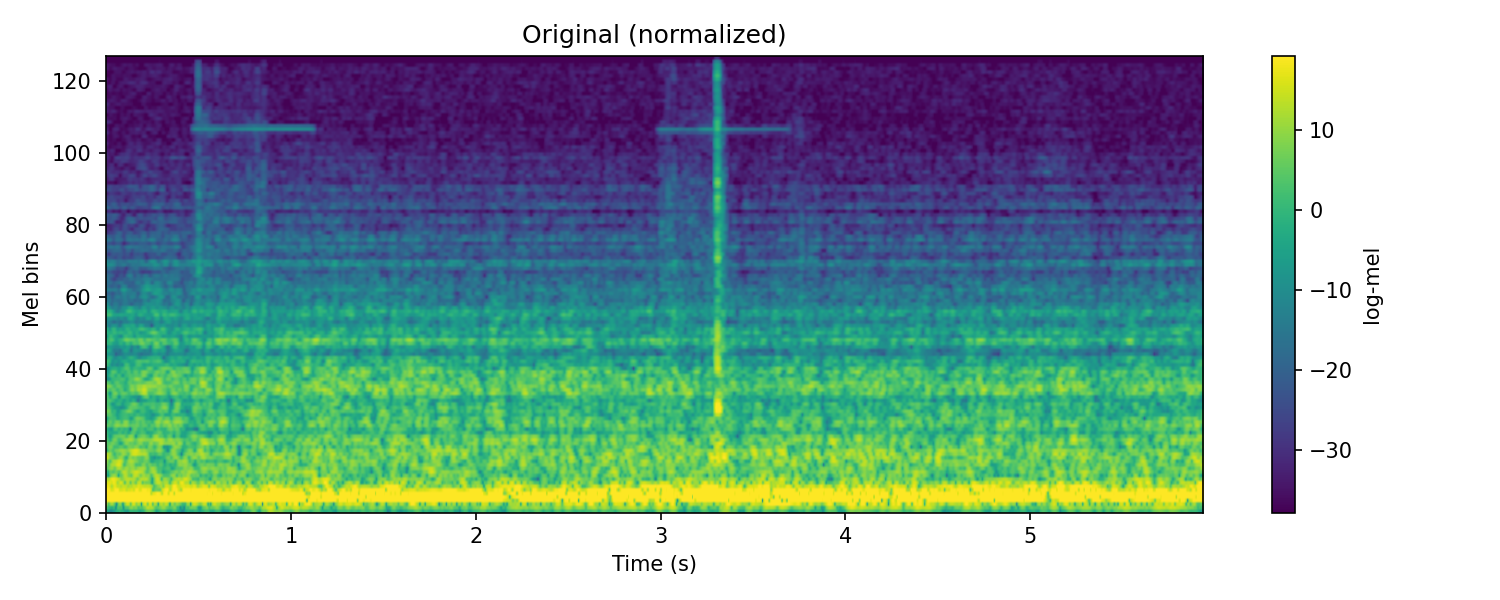
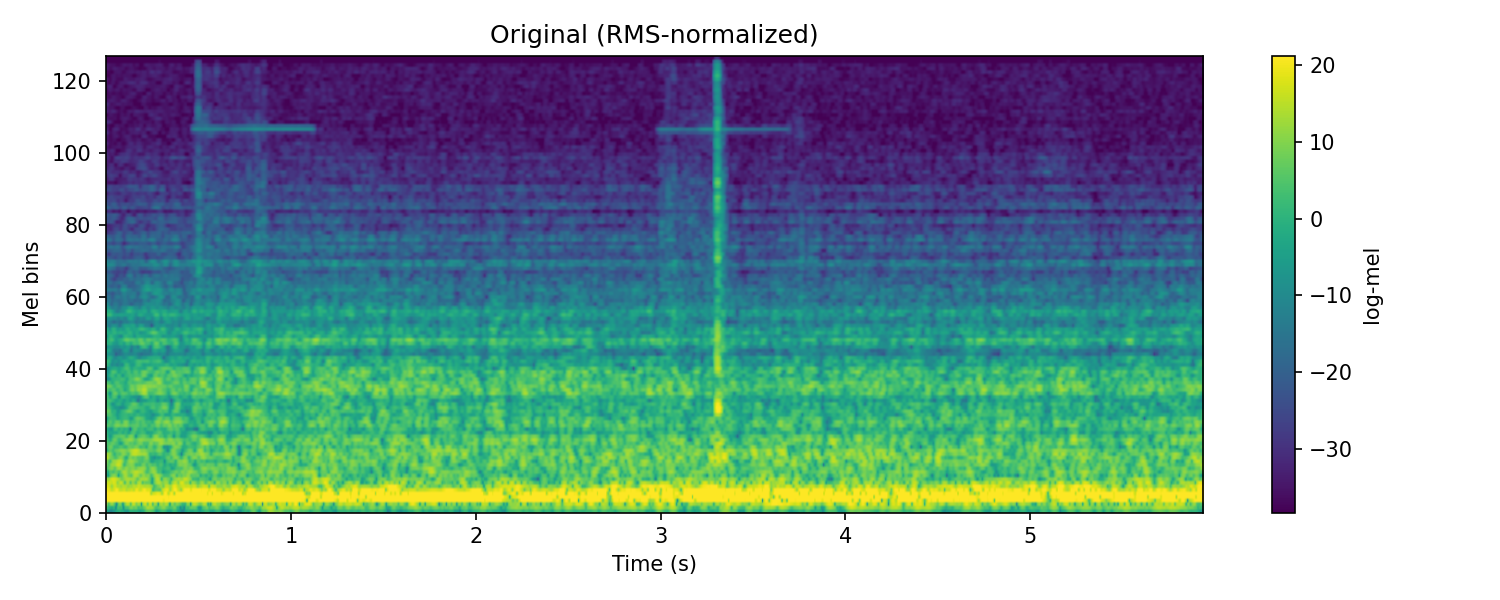
commit

diff --git a/sample.py b/sample.py
@@ -2,14 +2,14 @@
 # -*- coding: utf-8 -*-
 
 import argparse, warnings, sys, numpy as np, matplotlib.pyplot as plt, torch, librosa
+from tqdm import tqdm
+
 from sans import build_model
 from sans.audio_utils import WaveToMel
 from sans.objectives import band_energy_objective
 from sans.ascent_ckpt import encode_audio_cond, generate_with_audio_cond
 
-from tqdm import tqdm
-
-# ---------------- audio normalization ----------------
+# ---------------- audio normalization (ONLY for original) ----------------
 def rms_dbfs(x: torch.Tensor, eps: float = 1e-12) -> torch.Tensor:
     if x.ndim == 1: x = x.unsqueeze(0)
     rms = torch.sqrt((x ** 2).mean(dim=-1, keepdim=True) + eps)
@@ -23,80 +23,77 @@ def normalize_rms(x: torch.Tensor, target_dbfs: float = -20.0, peak_clip: float 
 
 # ---------------- shape utils: ALWAYS return [B,1,F,T] ----------------
 def ensure_mel_b1ft(x: torch.Tensor) -> torch.Tensor:
-    """
-    Accepts waveform [B,T] or mel-like [B,1,F,T]/[B,F,T]/[F,T]/[B,T,F].
-    Returns mel [B,1,F,T]. If input is waveform, caller should run to_mel() first.
-    """
     if not isinstance(x, torch.Tensor):
         x = torch.tensor(x, dtype=torch.float32)
     t = x
     if t.ndim == 4:                    # [B,1,F,T] or [B,C,F,T]
-        if t.size(1) != 1:
-            t = t.mean(dim=1, keepdim=True)
+        if t.size(1) != 1: t = t.mean(dim=1, keepdim=True)
         return t
     if t.ndim == 3:                    # [B,F,T] or [B,T,F]
-        # decide if middle is F or T by which is smaller (F ~ 64..512 typical)
         B, A, B2 = t.shape
-        if A <= B2:    # [B,F,T]
-            return t.unsqueeze(1)
-        else:          # [B,T,F] -> [B,1,F,T]
-            return t.transpose(1, 2).unsqueeze(1)
+        return t.unsqueeze(1) if A <= B2 else t.transpose(1, 2).unsqueeze(1)
     if t.ndim == 2:                    # [F,T] or [T,F]
         F, T = t.shape
-        if F <= T:    # [F,T]
-            return t.unsqueeze(0).unsqueeze(0)
-        else:         # [T,F]
-            return t.t().unsqueeze(0).unsqueeze(0)
-    if t.ndim == 1:                    # [T] -> fake batch/ch
+        return t.unsqueeze(0).unsqueeze(0) if F <= T else t.t().unsqueeze(0).unsqueeze(0)
+    if t.ndim == 1:
         return t.unsqueeze(0).unsqueeze(0)
     raise RuntimeError(f"Unsupported tensor shape for ensure_mel_b1ft: {tuple(t.shape)}")
 
-# ---------------- plotting with explicit axes ----------------
-def plot_mel_axes(
-        mel_b1ft: torch.Tensor, 
-        *, 
-        path: str, 
-        sr: int, 
-        hop: int,
-        axes: str = "time-x", 
-        title: str = None, 
-        vmin=None, 
-        vmax=None
-    ):
+# ---------------- plotting with explicit/auto axes ----------------
+def plot_mel_auto(
+    mel_b1ft: torch.Tensor, *, path: str, sr: int, hop: int,
+    expected_sec: float | None, mode: str = "auto", title: str = None,
+    vmin=None, vmax=None
+):
     """
     mel_b1ft: [B,1,F,T]
-    axes: "time-x"  -> X=time(s),  Y=mel bins
-          "time-y"  -> X=mel bins, Y=time(s)
+    mode: "auto" (pick orientation so time range ~ expected_sec),
+          "time-x" (X=time, Y=mel),
+          "time-y" (X=mel, Y=time)
     """
     m = mel_b1ft.detach().cpu().numpy()
     if m.ndim != 4 or m.shape[1] != 1:
         m = ensure_mel_b1ft(torch.tensor(m)).numpy()
     img = m[0, 0]  # [F,T]
-
     F, T = img.shape
+
+    # candidates
+    t_x = (T - 1) * (hop / sr)  # time if we put time on X (use img)
+    t_y = (F - 1) * (hop / sr)  # time if we put time on Y (use img.T)
+
+    # choose orientation
+    if mode == "auto" and expected_sec is not None:
+        # pick the candidate whose time range is closer to expected
+        if abs(t_x - expected_sec) <= abs(t_y - expected_sec):
+            pick = "time-x"
+        else:
+            pick = "time-y"
+    else:
+        pick = mode
+
+    # intensities
+    data = img if pick == "time-x" else img.T
     if vmin is None or vmax is None:
-        vmin = float(np.percentile(img, 2.0)); vmax = float(np.percentile(img, 98.0))
-    t_max = (T - 1) * (hop / sr)
+        vmin = float(np.percentile(data, 2.0)); vmax = float(np.percentile(data, 98.0))
+
+    # extents
+    if pick == "time-x":
+        extent = [0.0, t_x, 0.0, float(F - 1)]
+        xlabel, ylabel = "Time (s)", "Mel bins"
+    else:
+        extent = [0.0, float(F - 1), 0.0, t_y]
+        xlabel, ylabel = "Mel bins", "Time (s)"
 
     plt.figure(figsize=(10, 4))
-    if axes == "time-x":
-        # X: time(s), Y: mel bins
-        extent = [0.0, t_max, 0.0, float(F - 1)]
-        plt.imshow(img, aspect="auto", origin="lower", extent=extent, vmin=vmin, vmax=vmax)
-        plt.xlabel("Time (s)"); plt.ylabel("Mel bins")
-    else:
-        # axes == "time-y": X: mel bins, Y: time(s)
-        extent = [0.0, float(F - 1), 0.0, t_max]
-        plt.imshow(img.T, aspect="auto", origin="lower", extent=extent, vmin=vmin, vmax=vmax)
-        plt.xlabel("Mel bins"); plt.ylabel("Time (s)")
-
+    plt.imshow(data, aspect="auto", origin="lower", extent=extent, vmin=vmin, vmax=vmax)
     cbar = plt.colorbar(); cbar.set_label("log-mel")
+    plt.xlabel(xlabel); plt.ylabel(ylabel)
     if title: plt.title(title)
     plt.tight_layout(); plt.savefig(path, dpi=150); plt.close()
 
 # ---------------- main ----------------
 def main():
-    ap = argparse.ArgumentParser(description="CKPT-only ascent with explicit axes + normalization")
+    ap = argparse.ArgumentParser(description="CKPT-only ascent; normalize ONLY original; auto axes per image")
     ap.add_argument("--ckpt", type=str, default="/home/tori/.cache/audioldm/audioldm-s-full.ckpt")
     ap.add_argument("--ref", type=str, default="trumpet.wav")
     ap.add_argument("--sr", type=int, default=16000)
@@ -111,17 +108,18 @@ def main():
     ap.add_argument("--seed", type=int, default=1234)
     ap.add_argument("--band_lo", type=int, default=64)
     ap.add_argument("--band_hi", type=int, default=127)
-    ap.add_argument("--norm_dbfs", type=float, default=-20.0)
-    ap.add_argument("--axes", type=str, default="time-x", choices=["time-x","time-y"])
+    ap.add_argument("--norm_dbfs", type=float, default=-20.0, help="RMS target for ORIGINAL ONLY")
+    ap.add_argument("--axes", type=str, default="auto", choices=["auto","time-x","time-y"],
+                    help="auto picks orientation so time axis matches expected duration")
     args = ap.parse_args()
 
     device = "cuda" if torch.cuda.is_available() else "cpu"
     print(f"torch {torch.__version__}+cu{torch.version.cuda} | CUDA={torch.cuda.is_available()} | device={device}")
 
-    # Load model
+    # Model
     ldm = build_model(args.ckpt)
 
-    # Load reference audio
+    # Reference audio
     try:
         ref_wav, _ = librosa.load(args.ref, sr=args.sr)
     except Exception as e:
@@ -130,25 +128,25 @@ def main():
         ref_wav = 0.2 * np.sin(2*np.pi*440.0*t).astype(np.float32)
     ref_wave = torch.tensor(ref_wav, dtype=torch.float32, device=device).unsqueeze(0)
 
-    # Duration clamp
+    # Expected durations (used for auto axis picking)
     ref_len_s = max(0.25, len(ref_wav) / float(args.sr))
     eff_duration = min(args.duration, ref_len_s)
 
-    # Encode conditioning (robust helper from your repo)
+    # Conditioning
     with torch.no_grad():
         cond0 = encode_audio_cond(ldm, ref_wave, sr=args.sr)
     if not isinstance(cond0, torch.Tensor):
         cond0 = torch.zeros((1, 768), dtype=torch.float32, device=device)
 
-    # Objective & mel transformer
+    # Objective & mel transform
     to_mel = WaveToMel(sr=args.sr, hop=args.hop, n_mels=args.n_mels)
     obj = band_energy_objective(to_mel, band=(args.band_lo, args.band_hi))
 
     # Ascent
     e = torch.nn.Parameter(cond0.clone().detach().requires_grad_(True))
     opt = torch.optim.Adam([e], lr=args.lr)
-
     last_out = None
+
     for it in tqdm(range(args.ascent_steps)):
         opt.zero_grad(set_to_none=True)
         syn = generate_with_audio_cond(
@@ -164,50 +162,35 @@ def main():
         with torch.no_grad():
             d = e - cond0; n = d.norm(p=2, dim=-1, keepdim=True).clamp_min(1e-12)
             e.data = cond0 + d * (args.tau / n).clamp(max=1.0)
-        # if (it+1) % 5 == 0:
-        #     print(f"[{it+1}/{args.ascent_steps}] score={float(score):.6f}  loss={float(loss):.6f}")
 
-    # ----- Build normalized mels in canonical [B,1,F,T] -----
+    # ----- Build mels for comparison -----
     ref_wave_norm = normalize_rms(ref_wave, target_dbfs=args.norm_dbfs)
-    mel_ref = ensure_mel_b1ft(to_mel(ref_wave_norm.to("cpu")))        # [B,1,F,T]
+    to_mel.to(ref_wave_norm.device)
+    mel_ref = ensure_mel_b1ft(to_mel(ref_wave_norm))    # [B,1,F,T]
 
+    # Ascent: as-is
     if isinstance(last_out, torch.Tensor) and last_out.ndim == 2 and last_out.size(1) > 4*to_mel.n_fft:
-        # asc_wave_norm = last_out
-        # asc_wave_norm = normalize_rms(last_out, target_dbfs=args.norm_dbfs)
+        to_mel.to(last_out.device)
         mel_asc = ensure_mel_b1ft(to_mel(last_out))
     else:
         mel_asc = ensure_mel_b1ft(last_out)
 
-    # Shared color scale
+    # Per-image color scaling (prevents “washed out” look)
     ref_img = mel_ref[0,0].detach().cpu().numpy()
     asc_img = mel_asc[0,0].detach().cpu().numpy()
-    both = np.concatenate([ref_img.ravel(), asc_img.ravel()])
-    vmin = float(np.percentile(both, 2.0)); vmax = float(np.percentile(both, 98.0))
+    vmin_ref, vmax_ref = np.percentile(ref_img, [2,98]).tolist()
+    vmin_asc, vmax_asc = np.percentile(asc_img, [2,98]).tolist()
 
-    # Plots with explicit axes
-    plot_mel_axes(
-        mel_ref, 
-        path="original_norm.png", 
-        sr=args.sr, 
-        hop=args.hop,
-        axes=args.axes, 
-        title="Original (normalized)", 
-        vmin=vmin, 
-        vmax=vmax
-    )
-    plot_mel_axes(
-        mel_asc, 
-        path="ascent_norm.png", 
-        sr=args.sr, 
-        hop=args.hop,
-        axes=args.axes, 
-        title="Ascent (normalized)",   
-        vmin=vmin, 
-        vmax=vmax
-    )
+    # Plots — orientation chosen per image
+    plot_mel_auto(mel_ref, path="original_norm.png", sr=args.sr, hop=args.hop,
+                  expected_sec=ref_len_s, mode=args.axes, title="Original (RMS-normalized)",
+                  vmin=vmin_ref, vmax=vmax_ref)
 
-    print(f"Done. Axes mode: {args.axes}. Files: original_norm.png, ascent_norm.png")
+    plot_mel_auto(mel_asc, path="ascent.png", sr=args.sr, hop=args.hop,
+                  expected_sec=eff_duration, mode=args.axes, title="Ascent (as-is)",
+                  vmin=vmin_asc, vmax=vmax_asc)
 
+    print(f"Done. Axes mode: {args.axes}. Files: original_norm.png, ascent.png")
 
 if __name__ == "__main__":
     warnings.filterwarnings("ignore", category=UserWarning)
